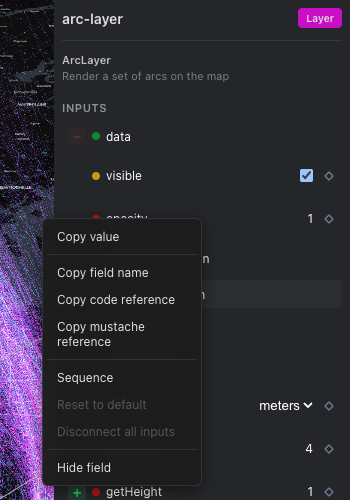
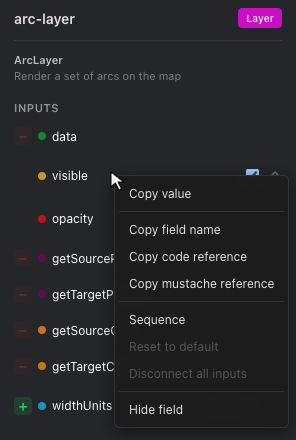
docs: retake properties panel screenshots with cursor and alignment
- Retake all three screenshots reflecting new 6px alignment grid
- Add fake cursor to context menu screenshot showing click target
- Keyframe screenshot now clean (no context menu artifact)
- Update screenshot guide with cursor rendering instructions

diff --git a/dev-docs/screenshot-guide.md b/dev-docs/screenshot-guide.md
@@ -58,6 +58,19 @@ resize_page({ width: 1280, height: 800 })
      }));
    }
    ```
+6. **Render a fake cursor** to show where a click/right-click happened:
+   ```javascript
+   () => {
+     const cursor = document.createElement('div');
+     cursor.id = 'fake-cursor';
+     cursor.style.cssText = 'position:fixed; left:1094px; top:211px; z-index:999999; pointer-events:none;';
+     cursor.innerHTML = `<svg width="16" height="20" viewBox="0 0 16 20" fill="none" xmlns="http://www.w3.org/2000/svg">
+       <path d="M1 1L1 16L5.5 12L9 19L11.5 18L8 11L14 11L1 1Z" fill="white" stroke="black" stroke-width="1.2"/>
+     </svg>`;
+     document.body.appendChild(cursor);
+   }
+   ```
+   Position `left`/`top` at the click coordinates (offset a few px up-left so the arrow tip lands on the target). Remove after capturing with `document.getElementById('fake-cursor').remove()`.
 
 ## File Conventions
 
@@ -80,3 +93,5 @@ resize_page({ width: 1280, height: 800 })
 - Use `evaluate_script` to dispatch synthetic events for context menus, hover states, etc.
 - Delete intermediate full-page screenshots after cropping
 - If the panel position shifts (e.g., viewport resize), re-query the element's bounding rect before cropping
+- For context menus, trigger on a field near the top of the list so the menu opens downward without covering the target field's label
+- Add a fake cursor (step 6 above) to indicate where the user right-clicked — position it so the arrow tip points at the target row
